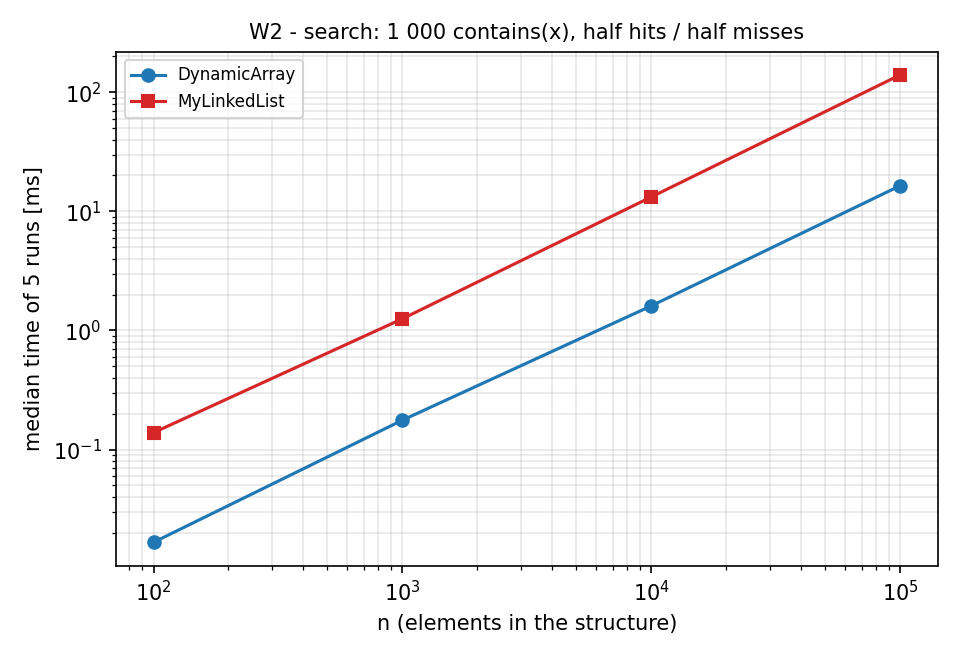
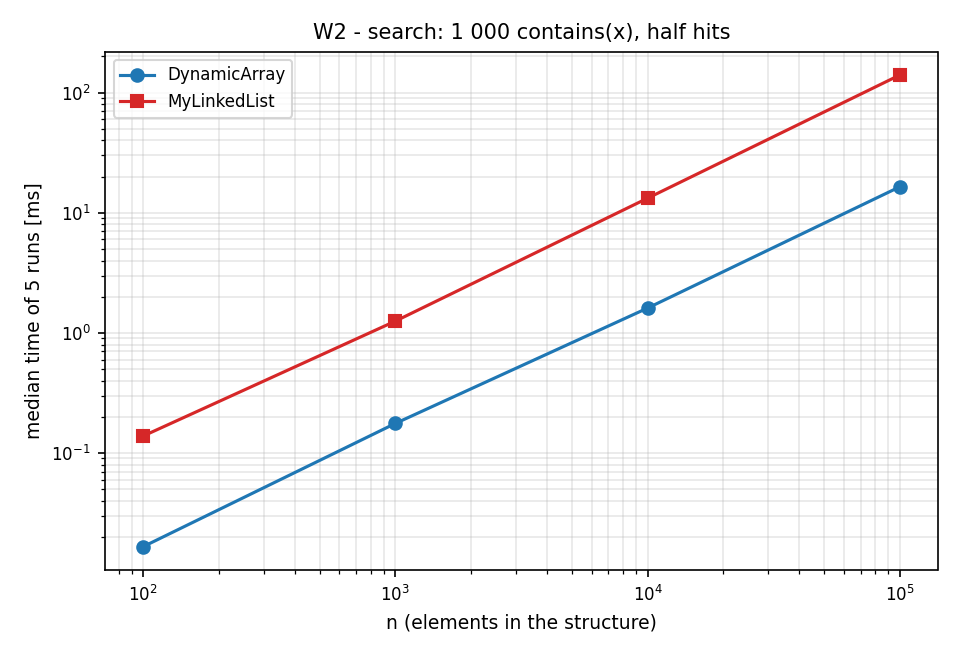
feat(metrics): y-axis labels, MB vs n plot and summary figures

diff --git a/scripts/plot.py b/scripts/plot.py
@@ -1,13 +1,15 @@
-#!/usr/bin/env python3
 """Reads results/*.csv and writes the PNG charts to results/plots/.
 
-Usage:  python3 scripts/plot.py        (needs pandas + matplotlib)
+Per workload: Wk_time.png (time vs n, all structures on one chart) and
+Wk_ops.png (steps / moves / comparisons vs n). Plus two compact summary figures used in the
+report, and the bonus charts.   Usage:  python3 scripts/plot.py   (needs pandas + matplotlib)
 """
 import os
 
 import matplotlib
 matplotlib.use("Agg")
 import matplotlib.pyplot as plt
+import numpy as np
 import pandas as pd
 
 ROOT = os.path.dirname(os.path.dirname(os.path.abspath(__file__)))
@@ -15,90 +17,106 @@ RES = os.path.join(ROOT, "results")
 OUT = os.path.join(RES, "plots")
 os.makedirs(OUT, exist_ok=True)
 
-STYLE = {  # (colour, marker) per structure
-    "DynamicArray": ("#1f77b4", "o"),
-    "MyLinkedList": ("#d62728", "s"),
-    "MinHeap": ("#2ca02c", "^"),
-}
-LINESTYLE = {"random": "-", "half_hit": "-", "insert_extract": "-", "head": "-", "middle": "--"}
+STYLE = {"DynamicArray": ("#1f77b4", "o"), "MyLinkedList": ("#d62728", "s"), "MinHeap": ("#2ca02c", "^")}
+LINESTYLE = {"-": "-", "head": "-", "middle": "--"}
 TITLES = {
     "W1": "W1 - random access: 10 000 get(index)",
-    "W2": "W2 - search: 1 000 contains(x), half hits / half misses",
-    "W3": "W3 - insert & remove: 1 000 + 1 000 operations",
-    "W4": "W4 - priority processing: n insert + n extractMin",
+    "W2": "W2 - search: 1 000 contains(x), half hits",
+    "W3": "W3 - 1 000 inserts + 1 000 removes (head / middle)",
+    "W4": "W4 - MinHeap: n insert + n extractMin",
 }
 METRICS = [("steps", "steps (cell reads / node visits)"),
-           ("moves", "moves (element shifts / pointer updates)"),
+           ("moves", "moves (shifts / pointer updates)"),
            ("comparisons", "comparisons")]
 
 
-def label(structure, variant, multi_variant):
-    return f"{structure} ({variant})" if multi_variant else structure
+def label(structure, variant, multi):
+    return f"{structure} ({variant})" if multi else structure
 
 
-def time_plot(df, w):
+def draw_time(ax, df, w, fs=8):
     sub = df[df.workload == w]
     multi = sub.variant.nunique() > 1
-    fig, ax = plt.subplots(figsize=(6.4, 4.4))
     for (structure, variant), g in sub.groupby(["structure", "variant"], sort=False):
         c, m = STYLE[structure]
         ax.plot(g.n, g.time_ms, marker=m, color=c, linestyle=LINESTYLE[variant],
                 label=label(structure, variant, multi))
     ax.set_xscale("log")
     ax.set_yscale("log")
-    ax.set_xlabel("n (elements in the structure)")
-    ax.set_ylabel("median time of 5 runs [ms]")
-    ax.set_title(TITLES[w], fontsize=10)
+    ax.set_xlabel("n (elements in the structure)", fontsize=fs)
+    ax.set_ylabel("median time of 5 runs [ms]", fontsize=fs)
+    ax.set_title(TITLES[w], fontsize=fs + 1)
+    ax.tick_params(labelsize=fs - 1)
     ax.grid(True, which="both", alpha=0.3)
-    ax.legend(fontsize=8)
-    fig.tight_layout()
-    fig.savefig(os.path.join(OUT, f"{w}_time.png"), dpi=150)
-    plt.close(fig)
+    ax.legend(fontsize=fs - 1)
 
 
-def ops_plot(df, w):
+def draw_ops(axes, df, w, fs=8):
     sub = df[df.workload == w]
     multi = sub.variant.nunique() > 1
-    fig, axes = plt.subplots(1, 3, figsize=(12, 4))
     for ax, (metric, title) in zip(axes, METRICS):
+        ax.set_title(title, fontsize=fs)
         if (sub[metric] == 0).all():
-            ax.text(0.5, 0.5, f"always 0\nfor every structure\nand every n", ha="center",
-                    va="center", fontsize=11, transform=ax.transAxes)
+            ax.text(0.5, 0.5, "always 0 for every\nstructure and every n", ha="center",
+                    va="center", fontsize=fs + 1, transform=ax.transAxes)
             ax.set_xticks([])
             ax.set_yticks([])
-            ax.set_title(title, fontsize=9)
             continue
+        zero = []
         for (structure, variant), g in sub.groupby(["structure", "variant"], sort=False):
             if (g[metric] == 0).all():
-                continue  # log axis cannot show zero; listed in the legend note below
+                zero.append(label(structure, variant, multi))
+                continue
             c, m = STYLE[structure]
             ax.plot(g.n, g[metric], marker=m, color=c, linestyle=LINESTYLE[variant],
                     label=label(structure, variant, multi))
-        zero = [label(s, v, multi) for (s, v), g in sub.groupby(["structure", "variant"], sort=False)
-                if (g[metric] == 0).all()]
         ax.set_xscale("log")
         ax.set_yscale("log")
-        ax.set_xlabel("n")
-        ax.set_title(title, fontsize=9)
+        ax.set_xlabel("n", fontsize=fs)
+        ax.set_ylabel("count of operations", fontsize=fs)
+        ax.tick_params(labelsize=fs - 1)
         ax.grid(True, which="both", alpha=0.3)
-        ax.legend(fontsize=7)
+        ax.legend(fontsize=fs - 2)
         if zero:
-            ax.text(0.02, 0.02, "0 for: " + ", ".join(zero), fontsize=7, transform=ax.transAxes,
+            ax.text(0.02, 0.02, "0 for: " + ", ".join(zero), fontsize=fs - 2, transform=ax.transAxes,
                     va="bottom", bbox=dict(facecolor="white", alpha=0.8, edgecolor="none"))
-    fig.suptitle(TITLES[w] + "  -  counted operations", fontsize=10)
+
+
+def save(fig, name):
     fig.tight_layout()
-    fig.savefig(os.path.join(OUT, f"{w}_ops.png"), dpi=150)
+    fig.savefig(os.path.join(OUT, name), dpi=150)
     plt.close(fig)
 
 
+def workload_plots(df):
+    for w in ("W1", "W2", "W3", "W4"):
+        fig, ax = plt.subplots(figsize=(6.4, 4.4))
+        draw_time(ax, df, w, fs=9)
+        save(fig, f"{w}_time.png")
+        fig, axes = plt.subplots(1, 3, figsize=(12, 4))
+        draw_ops(axes, df, w, fs=9)
+        fig.suptitle(TITLES[w] + "  -  counted operations", fontsize=10)
+        save(fig, f"{w}_ops.png")
+
+    fig, axes = plt.subplots(2, 2, figsize=(11, 7.4))
+    for ax, w in zip(axes.flat, ("W1", "W2", "W3", "W4")):
+        draw_time(ax, df, w, fs=8)
+    save(fig, "summary_time.png")
+    fig, axes = plt.subplots(4, 3, figsize=(12, 11))
+    for row, w in zip(axes, ("W1", "W2", "W3", "W4")):
+        draw_ops(row, df, w, fs=8)
+        row[0].annotate(w, xy=(-0.32, 0.5), xycoords="axes fraction", fontsize=13,
+                        fontweight="bold", va="center")
+    save(fig, "summary_ops.png")
+
+
 def slopes(df):
-    print("Empirical log-log slope of time vs n (n = 1 000 .. 100 000):")
-    import numpy as np
+    print("Empirical log-log slope (n = 1 000 .. 100 000):")
     for (w, v, s), g in df.groupby(["workload", "variant", "structure"], sort=False):
         g = g[g.n >= 1000]
         k = np.polyfit(np.log10(g.n), np.log10(g.time_ms), 1)[0]
         ks = np.polyfit(np.log10(g.n), np.log10(g.steps + g.moves + g.comparisons), 1)[0]
-        print(f"  {w:3s} {v:15s} {s:13s} time slope {k:5.2f}   ops slope {ks:5.2f}")
+        print(f"  {w:3s} {v:7s} {s:13s} time slope {k:5.2f}   ops slope {ks:5.2f}")
 
 
 def bonus_plots():
@@ -109,50 +127,58 @@ def bonus_plots():
         for inp, ls in (("random", "-"), ("descending", "--")):
             for method, c, m in (("n_inserts", "#d62728", "s"), ("buildHeap", "#2ca02c", "^")):
                 g = b[(b.input == inp) & (b.method == method)]
-                axes[0].plot(g.n, g.comparisons_per_n, color=c, marker=m, linestyle=ls,
-                             label=f"{method} ({inp})")
-                axes[1].plot(g.n, g.time_ms, color=c, marker=m, linestyle=ls,
-                             label=f"{method} ({inp})")
-        axes[0].set_ylabel("comparisons / n")
+                axes[0].plot(g.n, g.comparisons_per_n, color=c, marker=m, linestyle=ls, label=f"{method} ({inp})")
+                axes[1].plot(g.n, g.time_ms, color=c, marker=m, linestyle=ls, label=f"{method} ({inp})")
+        axes[0].set_ylabel("comparisons per element (comparisons / n)")
         axes[0].set_title("Bonus B: comparisons per element", fontsize=10)
-        axes[1].set_ylabel("median time [ms]")
+        axes[1].set_ylabel("median time of 5 runs [ms]")
         axes[1].set_yscale("log")
         axes[1].set_title("Bonus B: build time", fontsize=10)
         for ax in axes:
             ax.set_xscale("log")
-            ax.set_xlabel("n")
+            ax.set_xlabel("n (number of keys)")
             ax.grid(True, which="both", alpha=0.3)
             ax.legend(fontsize=8)
-        fig.tight_layout()
-        fig.savefig(os.path.join(OUT, "bonus_buildheap.png"), dpi=150)
-        plt.close(fig)
+        save(fig, "bonus_buildheap.png")
 
     path = os.path.join(RES, "memory.csv")
     if os.path.exists(path):
         m = pd.read_csv(path)
+
+        fig, ax = plt.subplots(figsize=(6.4, 4.4))
+        for s, g in m.groupby("structure", sort=False):
+            c, mk = STYLE[s]
+            ax.plot(g.n, g.total_bytes / 1e6, color=c, marker=mk,
+                    linestyle="--" if s == "MinHeap" else "-", label=s)
+        n = m.n.unique()
+        ax.plot(n, 4 * n / 1e6, color="gray", linestyle=":", label="payload only (4 bytes per int)")
+        ax.set_xscale("log")
+        ax.set_yscale("log")
+        ax.set_xlabel("n (elements)")
+        ax.set_ylabel("memory of the object graph [MB = 10^6 bytes] (JOL)")
+        ax.set_title("Bonus A: memory vs n (MinHeap overlaps DynamicArray)", fontsize=10)
+        ax.grid(True, which="both", alpha=0.3)
+        ax.legend(fontsize=8)
+        save(fig, "bonus_memory_mb.png")
         fig, ax = plt.subplots(figsize=(6.4, 4.4))
         for s, g in m.groupby("structure", sort=False):
             if s == "MinHeap":
-                continue  # identical layout to DynamicArray (int[] + header), see report
+                continue
             c, mk = STYLE[s]
             ax.plot(g.n, g.bytes_per_element, color=c, marker=mk, label=s + (" = MinHeap" if s == "DynamicArray" else ""))
-        ax.axhline(4, color="gray", linestyle=":", label="payload: 4 bytes / int")
+        ax.axhline(4, color="gray", linestyle=":", label="payload: 4 bytes per int")
         ax.set_xscale("log")
-        ax.set_xlabel("n")
-        ax.set_ylabel("bytes per element (JOL, whole object graph)")
-        ax.set_title("Bonus A: memory footprint", fontsize=10)
+        ax.set_xlabel("n (elements)")
+        ax.set_ylabel("bytes per element (JOL)")
+        ax.set_title("Bonus A: bytes per element", fontsize=10)
         ax.grid(True, which="both", alpha=0.3)
         ax.legend(fontsize=8)
-        fig.tight_layout()
-        fig.savefig(os.path.join(OUT, "bonus_memory.png"), dpi=150)
-        plt.close(fig)
+        save(fig, "bonus_memory_per_element.png")
 
 
 def main():
     df = pd.read_csv(os.path.join(RES, "results.csv"))
-    for w in ("W1", "W2", "W3", "W4"):
-        time_plot(df, w)
-        ops_plot(df, w)
+    workload_plots(df)
     bonus_plots()
     slopes(df)
     print("Plots written to", OUT)
